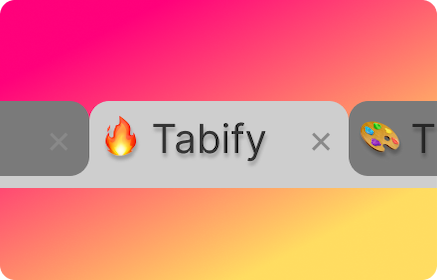
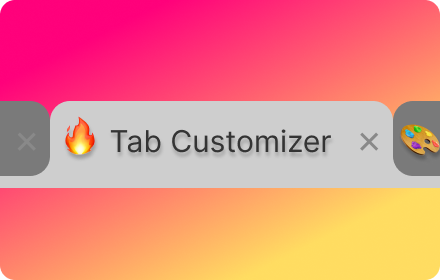
rename to tab customizer

Changed region(s): [[0.0886, 0.0, 1.0, 1.0]]

diff --git a/src/App.tsx b/src/App.tsx
@@ -25,10 +25,6 @@ export const App=()=> {
         }
     },[])
 useEffect(()=>{
-    navigator.geolocation.getCurrentPosition(position => {
-        const { latitude, longitude } = position.coords;
-        amplitude.track('location', { latitude, longitude });
-    });
 
     chrome.tabs.query({active: true, currentWindow: true}, function(tabs) {
         const tabId = tabs[0].id;
@@ -58,7 +54,7 @@ useEffect(()=>{
     const [title, setTitle] = useState<string>("");
     const [showEmojiPicker, setShowEmojiPicker] = useState<boolean>(true);
   
-    const emojiRegex = /\p{Emoji}/u;
+    const emojiRegex = /^\p{Emoji}$/u;
     const handleWriteEmoji=(event:any)=>{
         const newText= event.target.value
         amplitude.track("EmojiWriteInput", {status: "typed", value: newText})
@@ -143,8 +139,9 @@ useEffect(()=>{
             canvas.width = 32;
             canvas.height = 32;
             const fontSize = 30;
-            let color= mode==='dark'? "#ddd": mode==="light"?"#222":"#888";
-       
+            // let color= mode==='dark'? "#ddd": mode==="light"?"#222":"#888";
+            let color= "#888";
+
             context.font = `bold ${fontSize}px Arial`; // You can choose any font that supports emojis
             context.textAlign = "center";
             context.textBaseline = 'middle';
